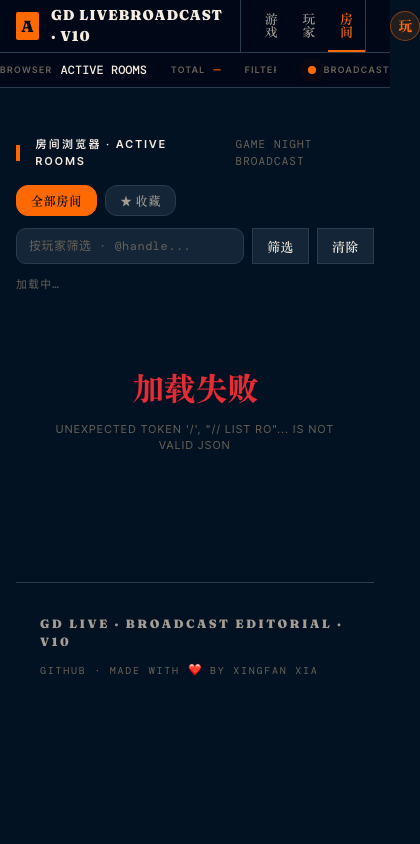
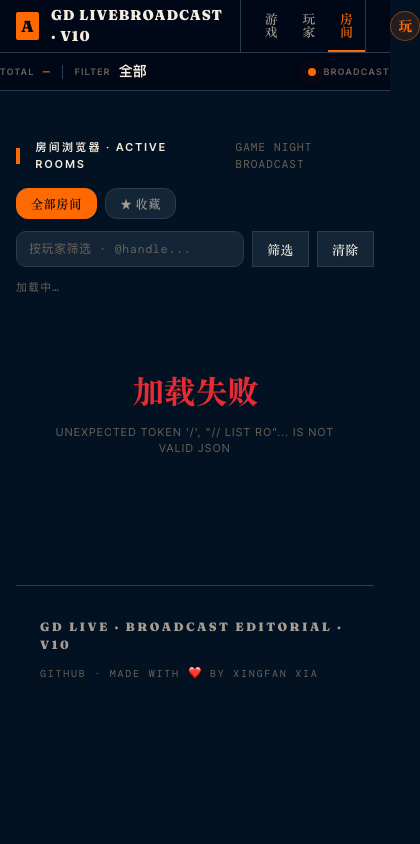
fix(theme): mobile ticker simplification + random-ranking visibility hint
Mobile (<768px): hide Room/Owner/Elapsed ticker chips + their separators.
Keep Mode + Round + Level as the primary game-state info. Round chip
slightly larger and bolder for prominence.

Random ranking button: write to #applyTip after firing, telling user
whether autoApply consumed the result or they need to click 应用结果.
Without this hint the click feels like a no-op when autoApply is on.

diff --git a/src/themes/broadcast/theme.css b/src/themes/broadcast/theme.css
@@ -2670,6 +2670,21 @@
     border-left: 0;
     padding-left: var(--s2);
   }
+  /* Mobile ticker: hide Room/Owner/Elapsed and the separators flanking them.
+     Keep Mode, Round, Level — they're the primary game-state info. */
+  :root[data-theme="broadcast"] .ticker__item:nth-child(1),
+  :root[data-theme="broadcast"] .ticker__item:nth-child(11),
+  :root[data-theme="broadcast"] .ticker__sep:nth-child(2),
+  :root[data-theme="broadcast"] .ticker__sep:nth-child(10),
+  :root[data-theme="broadcast"] .ticker__item:nth-child(9),
+  :root[data-theme="broadcast"] .ticker__sep:nth-child(8) {
+    display: none;
+  }
+  /* Round chip — make it larger and more prominent on mobile */
+  :root[data-theme="broadcast"] .ticker__item:nth-child(5) .ticker__item-value {
+    font-size: 14px;
+    font-weight: 600;
+  }
 
   /* Stack scoreboard into vertical column */
   :root[data-theme="broadcast"] .scorer {

diff --git a/src/controllers/playerControls.js b/src/controllers/playerControls.js
@@ -80,6 +80,17 @@ export function setupPlayerControls() {
       const playerIds = players.map(p => p.id);
 
       randomizeRanking(playerIds, mode);
+
+      // Surface what happened — without this hint, autoApply consumes the
+      // random fill in the same frame and the user thinks the click did
+      // nothing. Tells them whether result auto-applied or awaits manual click.
+      const applyTip = $('applyTip');
+      if (applyTip) {
+        const autoApply = document.getElementById('autoApply')?.checked;
+        applyTip.textContent = autoApply
+          ? '✓ 已随机分配名次，结果已自动应用'
+          : '✓ 已随机分配名次，请点击「应用结果到战绩」';
+      }
     });
   }
 
